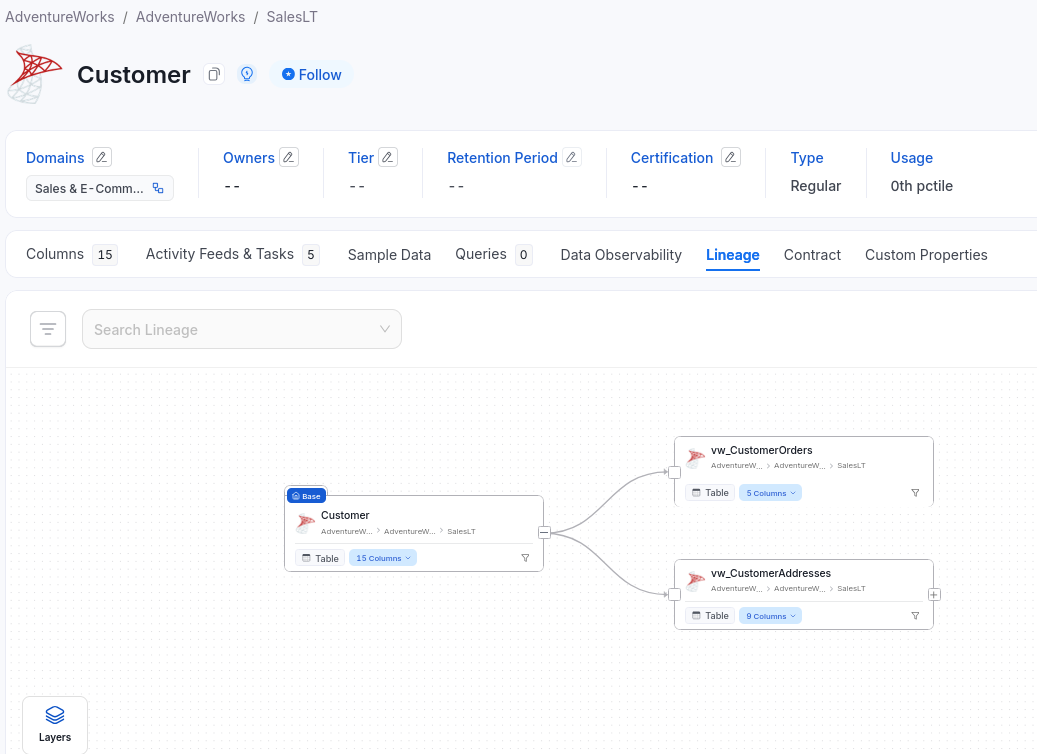
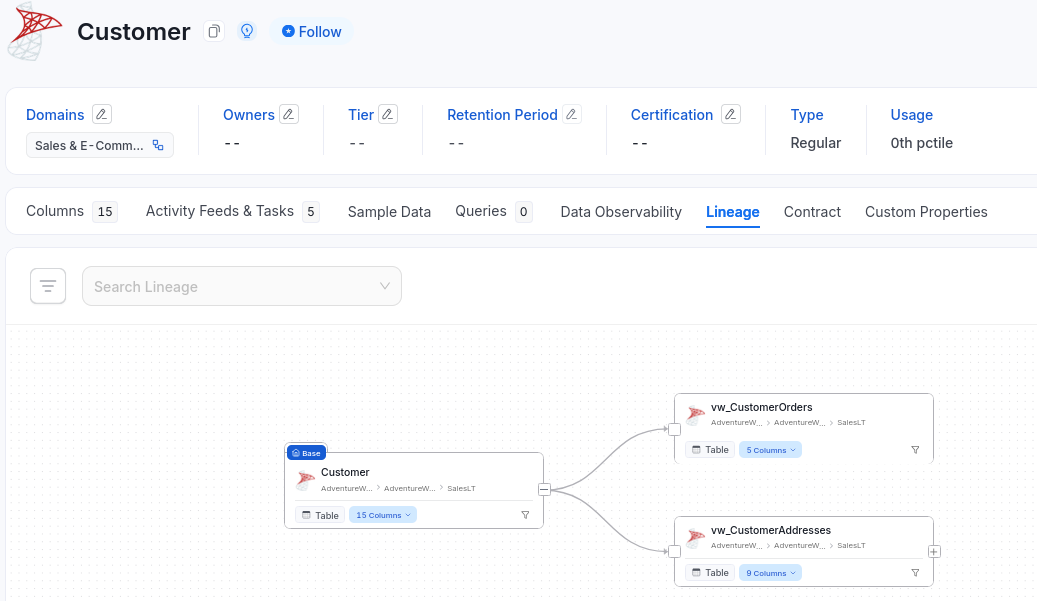
fix immagini

diff --git a/chapters/sviluppo-sicuro.tex b/chapters/sviluppo-sicuro.tex
@@ -146,6 +146,12 @@ eliminate, ma guidano l'assegnazione corretta delle etichette:
     \item \textbf{\emph{Certification} (Certificazione)}: Impiegata all'interno delle procedure di Data Quality per qualificare visivamente l'affidabilità di un dataset. Questa tassonomia si articola nei tag gerarchici \texttt{Bronze}, \texttt{Silver} e \texttt{Gold}, permettendo agli analisti di Business Intelligence di verificare all'istante se un dato è stato validato e approvato prima di importarlo nei report.
 \end{itemize}
 
+\noindent Oltre alle tassonomie predefinite, la piattaforma supporta la creazione di classificazioni personalizzate, adattabili alle specifiche policy interne 
+di Wintech, per esempio per contrassegnare dati con un tag che ne indica il livello di «confidenzialità».
+
+Ogni classificazione può essere configurata attivando l'opzione di mutua esclusione. Se abilitata, questa proprietà garantisce l'integrità logica della classificazione, 
+impedendo che a un singolo asset vengano associati contemporaneamente due tag contrastanti appartenenti alla medesima tassonomia.
+
 \begin{figure}[H]
     \centering
     \includegraphics[width=1\textwidth]{schermate/tag_pii.png}
@@ -155,20 +161,14 @@ eliminate, ma guidano l'assegnazione corretta delle etichette:
 
 \begin{figure}[H]
     \centering
-    \includegraphics[width=1\textwidth]{schermate/tag_tier.png}
+    \includegraphics[width=0.9\textwidth]{schermate/tag_tier.png}
     \caption{Pannello di gestione delle classificazioni di sistema: tassonomia Tier.}
     \label{fig:tag_tier}
 \end{figure}
 
-\noindent Oltre alle tassonomie predefinite, la piattaforma supporta la creazione di classificazioni personalizzate, adattabili alle specifiche policy interne 
-di Wintech, per esempio per contrassegnare dati con un tag che ne indica il livello di «confidenzialità».
-
-Ogni classificazione può essere configurata attivando l'opzione di mutua esclusione. Se abilitata, questa proprietà garantisce l'integrità logica della classificazione, 
-impedendo che a un singolo asset vengano associati contemporaneamente due tag contrastanti appartenenti alla medesima tassonomia.
-
 \begin{figure}[H]
     \centering
-    \includegraphics[width=0.75\textwidth]{schermate/tag_personalizzato.png}
+    \includegraphics[width=0.7\textwidth]{schermate/tag_personalizzato.png}
     \caption[Esempio di classificazione personalizzata.]{Esempio di classificazione personalizzata \texttt{DataClassification}, configurata con l'opzione di mutua esclusione attivata.}
     \label{fig:tag_personalizzato}
 \end{figure}
@@ -202,8 +202,7 @@ esclusivamente il metadato risultante (il tag di classificazione da applicare).
 
 \begin{figure}[H]
     \centering
-    \includegraphics[width=0.9\textwidth]{autoclassificazione.png}
-    \vspace{0.2cm}
+    \includegraphics[width=0.85\textwidth]{autoclassificazione.png}
     \caption[Rappresentazione del flusso di auto-classificazione.]{Architettura dell'auto-classificazione: i dati reali vengono elaborati e distrutti localmente, trasmettendo al server centrale solo i metadati. \textit{Nota: La presente infografica è stata generata con l'ausilio di un sistema di Intelligenza Artificiale.}}
     \label{fig:flusso_autoclassificazione}
 \end{figure}
@@ -270,7 +269,6 @@ in chiaro agli amministratori di sistema (\emph{Admin}) e ai proprietari (\emph{
 \begin{figure}[H]
     \centering
     \includegraphics[width=1\textwidth]{schermate/anonimizzazione.png}
-    \vspace{0.2cm}
     \caption[Applicazione dell'anonimizzazione nell'interfaccia.]{Applicazione pratica dell'anonimizzazione: i \emph{Sample Data} classificati come sensibili vengono oscurati per gli utenti non autorizzati.}
     \label{fig:anonimizzazione}
 \end{figure}
@@ -353,7 +351,7 @@ quattro principi fondamentali:
 
 \begin{figure}[H]
     \centering
-    \includegraphics[width=1\textwidth]{schermate/policy_gdpr.png}
+    \includegraphics[width=0.98\textwidth]{schermate/policy_gdpr.png}
     \caption[Dettaglio della policy GDPR]{Dettaglio della policy dedicata al rispetto del GDPR: regola con effetto di divieto (\emph{Deny}) basata sui tag, per impedire la visualizzazione in chiaro dei dati etichettati come sensibili.}
     \label{fig:policy_gdpr}
 \end{figure}
@@ -379,8 +377,7 @@ I termini all'interno di ciascun glossario possono essere organizzati secondo un
 
 \begin{figure}[H]
     \centering
-    \includegraphics[width=1\textwidth]{schermate/glossario_wintech.png}
-    \vspace{0.2cm}
+    \includegraphics[width=0.98\textwidth]{schermate/glossario_wintech.png}
     \caption{Interfaccia principale del glossario aziendale.}
     \label{fig:glossario_generale}
 \end{figure}
@@ -388,7 +385,6 @@ I termini all'interno di ciascun glossario possono essere organizzati secondo un
 \begin{figure}[H]
     \centering
     \includegraphics[width=1\textwidth]{schermate/glossario_termini.png}
-    \vspace{0.2cm}
     \caption{Struttura gerarchica dei termini nel glossario.}
     \label{fig:glossario_gerarchia}
 \end{figure}

diff --git a/chapters/contesto-aziendale.tex b/chapters/contesto-aziendale.tex
@@ -41,7 +41,7 @@ Wintech personalizza e fornisce diverse soluzioni software, adattandole alle dim
     \centering
     % loghi dei partner principali
     \includegraphics[width=1\textwidth]{partner.png}
-    \vspace{0.2cm}
+    \vspace{0.1cm}
     \caption{Principali partner di Wintech.}
     \label{fig:aziende_partner}
 \end{figure}
@@ -60,7 +60,7 @@ Wintech è un'azienda certificata a livello internazionale: questo garantisce la
 \begin{figure}[H]
     \centering
     \includegraphics[width=1\textwidth]{certificazioni2.png}
-    \vspace{0.2cm}
+    \vspace{0.1cm}
     \caption[ISO 9001 e 27001: Standard di qualità e sicurezza.]{ISO 9001 e 27001: Standard di qualità e sicurezza. \textit{Nota: La presente infografica è stata generata con l'ausilio di un sistema di Intelligenza Artificiale.}}
     \label{fig:certificazioni}
 \end{figure}
@@ -86,7 +86,7 @@ Nello specifico, i team di sviluppo seguono il \emph{framework Scrum}, basato su
 \begin{figure}[H]
     \centering
     \includegraphics[width=1\textwidth]{scrum.png}
-    \vspace{0.2cm}
+    \vspace{0.1cm}
     \caption{Rappresentazione del ciclo iterativo del \emph{framework Scrum}.}
     \label{fig:scrum}
 \end{figure}

diff --git a/chapters/progetto-di-stage.tex b/chapters/progetto-di-stage.tex
@@ -116,7 +116,7 @@ Il flusso di lavoro ha seguito le direttive interne di Wintech; in particolare, 
 \begin{figure}[H]
     \centering
     \includegraphics[width=1\textwidth]{documentazione.png}
-    \vspace{0.2cm}
+    \vspace{0.1cm}
     \caption[Documentazione prodotta durante lo stage.]{Documentazione prodotta durante lo stage. \textit{Nota: La presente infografica è stata generata con l'ausilio di un sistema di Intelligenza Artificiale.}}
     \label{fig:documentazione}
 \end{figure}
